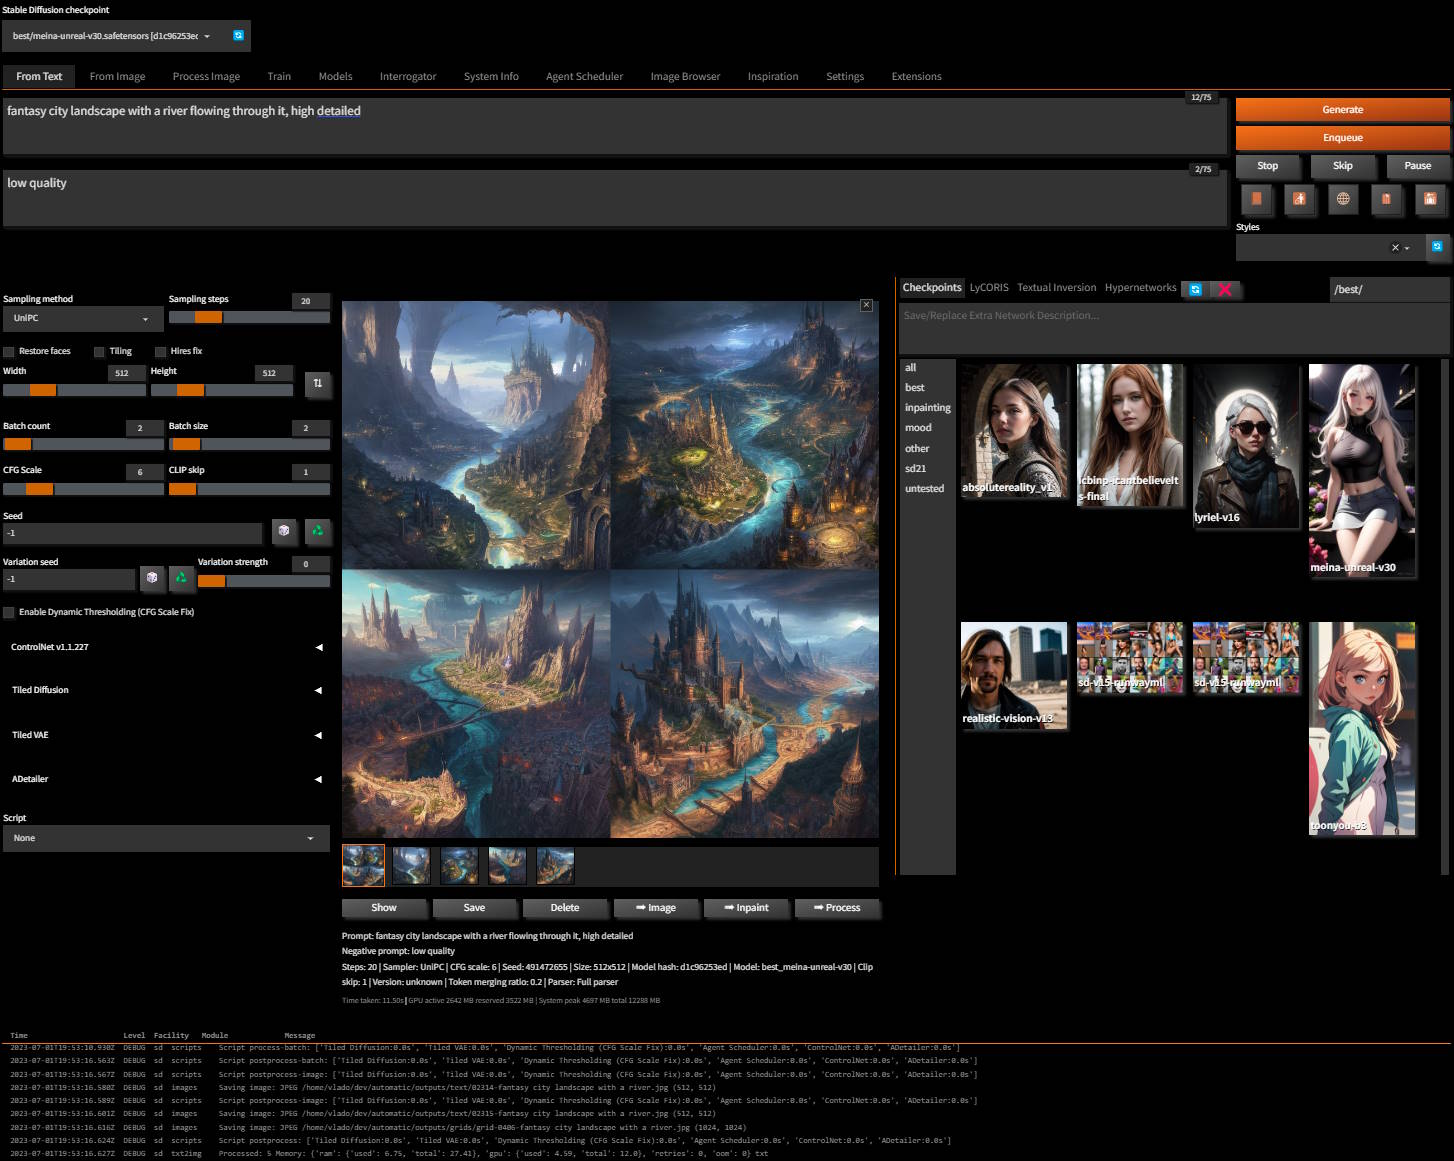
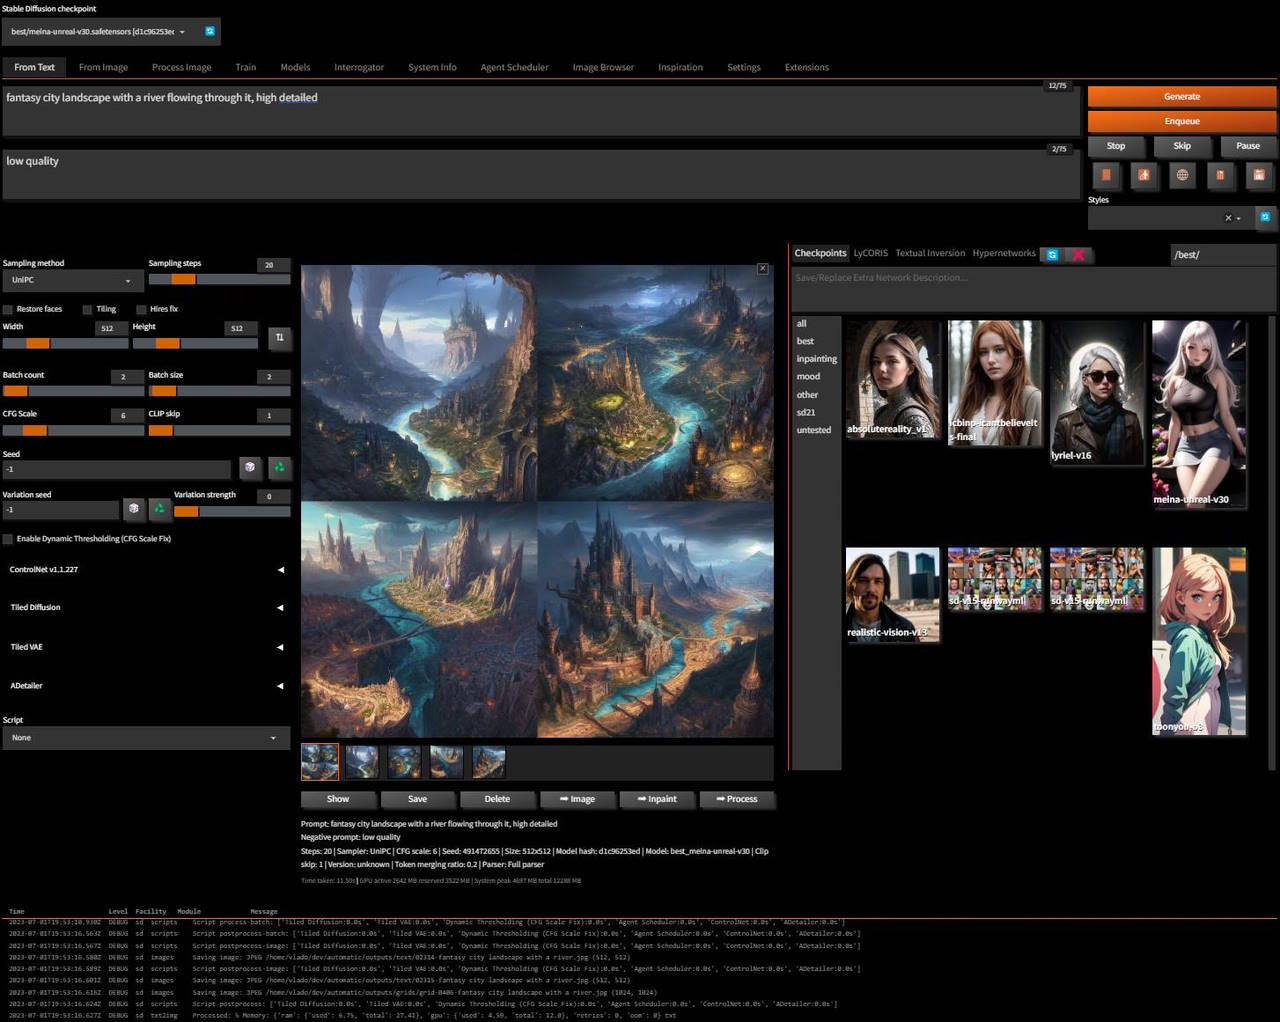
add black-teal theme

diff --git a/javascript/black-teal.css b/javascript/black-teal.css
@@ -1,23 +1,23 @@
 /* generic html tags */
 :root, .light, .dark {
-  --font: "Source Sans Pro", 'ui-sans-serif', 'system-ui', "Roboto", sans-serif;
-  --font-mono: 'IBM Plex Mono', 'ui-monospace', 'Consolas', monospace;
+  --font: 'system-ui', 'ui-sans-serif', 'system-ui', "Roboto", sans-serif;
+  --font-mono: 'ui-monospace', 'Consolas', monospace;
   --font-size: 16px;
   --left-column: 490px;
-  --highlight-color: #ce6400;
-  --inactive-color: #4e1400;
-  --background-color: #000000;
-  --primary-50: #fff7ed;
-  --primary-100: #ffedd5;
-  --primary-200: #fed7aa;
-  --primary-300: #fdba74;
-  --primary-400: #fb923c;
-  --primary-500: #f97316;
-  --primary-600: #ea580c;
-  --primary-700: #c2410c;
-  --primary-800: #9a3412;
-  --primary-900: #7c2d12;
-  --primary-950: #6c2e12;
+  --primary-50: #7dffff;
+  --primary-100: #72e8e8;
+  --primary-200: #67d2d2;
+  --primary-300: #5dbcbc;
+  --primary-400: #52a7a7;
+  --primary-500: #489292;
+  --primary-600: #3e7d7d;
+  --primary-700: #356969;
+  --primary-800: #2b5656;
+  --primary-900: #224444;
+  --primary-950: #193232;
+  --highlight-color: var(--primary-200);
+  --inactive-color: var(--primary--800);
+  --background-color: #000000;           
 }
 .light, .dark {
   --input-padding: 4px;
@@ -113,7 +113,7 @@ svg.feather.feather-image, .feather .feather-image { display: none }
 #txt2img_results, #img2img_results, #extras_results { background-color: var(--background-color); padding: 0; }
 #txt2img_settings { min-width: var(--left-column); max-width: var(--left-column); background-color: #111111; padding-top: 16px; }
 #pnginfo_html2_info { margin-top: -18px; background-color: var(--input-background-fill); padding: var(--input-padding) }
-#txt2img_tools > div > button, #img2img_tools > div > button { filter: hue-rotate(180deg) saturate(0.5); }
+#txt2img_tools > div > button, #img2img_tools > div > button { filter: hue-rotate(340deg) saturate(0.5); }
 #txt2img_tools, #img2img_tools { margin-top: -4px; margin-bottom: -4px; } 
 #txt2img_styles_row, #img2img_styles_row { margin-top: -6px; }
 

diff --git a/modules/shared.py b/modules/shared.py
@@ -507,7 +507,7 @@ options_templates.update(options_section(('saving-paths', "Image Naming & Paths"
 }))
 
 options_templates.update(options_section(('ui', "User Interface"), {
-    "gradio_theme": OptionInfo("black-orange", "UI theme", gr.Dropdown, lambda: {"choices": list_themes()}, refresh=refresh_themes),
+    "gradio_theme": OptionInfo("black-teal", "UI theme", gr.Dropdown, lambda: {"choices": list_themes()}, refresh=refresh_themes),
     "theme_style": OptionInfo("Auto", "Theme mode", gr.Radio, {"choices": ["Auto", "Dark", "Light"]}),
     "tooltips": OptionInfo("UI Tooltips", "UI tooltips", gr.Radio, {"choices": ["None", "Browser default", "UI tooltips"]}),
     "return_grid": OptionInfo(True, "Show grid in results for web"),

diff --git a/TODO.md b/TODO.md
@@ -12,20 +12,16 @@ Stuff to be fixed, in no particular order...
 Stuff to be added, in no particular order...
 
 - Diffusers:
-  - Add Hires
   - Add Lora/Lyco mixer
   - Add ControlNet
   - Add SD and SD-XL Pix2Pix
   - Fix DeepFloyd IF model
-  - Redo Prompt parser for diffusers
   - Add unCLIP model
-  - Add ToMe support
   - Add Training support
 - Technical debt:
   - Port **A1111** stuff
   - Port `p.all_hr_prompts`
   - Import core repos to reduce dependencies
-  - Update `gradio`
   - Parse StabilityAI `modelspec` metadata
 - Non-technical:
   - Create additional themes

diff --git a/CHANGELOG.md b/CHANGELOG.md
@@ -2,8 +2,11 @@
 
 ## Update for 2023-09-03
 
-- full python 3.11 support  
-  note that changing python version does require reinstall  
+- system:
+  - new default theme: **black-teal**
+  - full **python 3.11** support  
+    note that changing python version does require reinstall  
+    and if you're already on python 3.10, really no need to upgrade  
 - extra networks:
   - support for **tags**  
     show tags on hover, search by tag, list tags, add to prompt, etc.  

diff --git a/README.md b/README.md
@@ -111,7 +111,7 @@ Below is partial list of all available parameters, run `webui --help` for the fu
       --upgrade                        Upgrade main repository to latest version, default: False
       --safe                           Run in safe mode with no user extensions
 
-<br>![screenshot](html/black-orange.jpg)<br>
+<br>![screenshot](html/black-teal.jpg)<br>
 
 ## Notes
 
